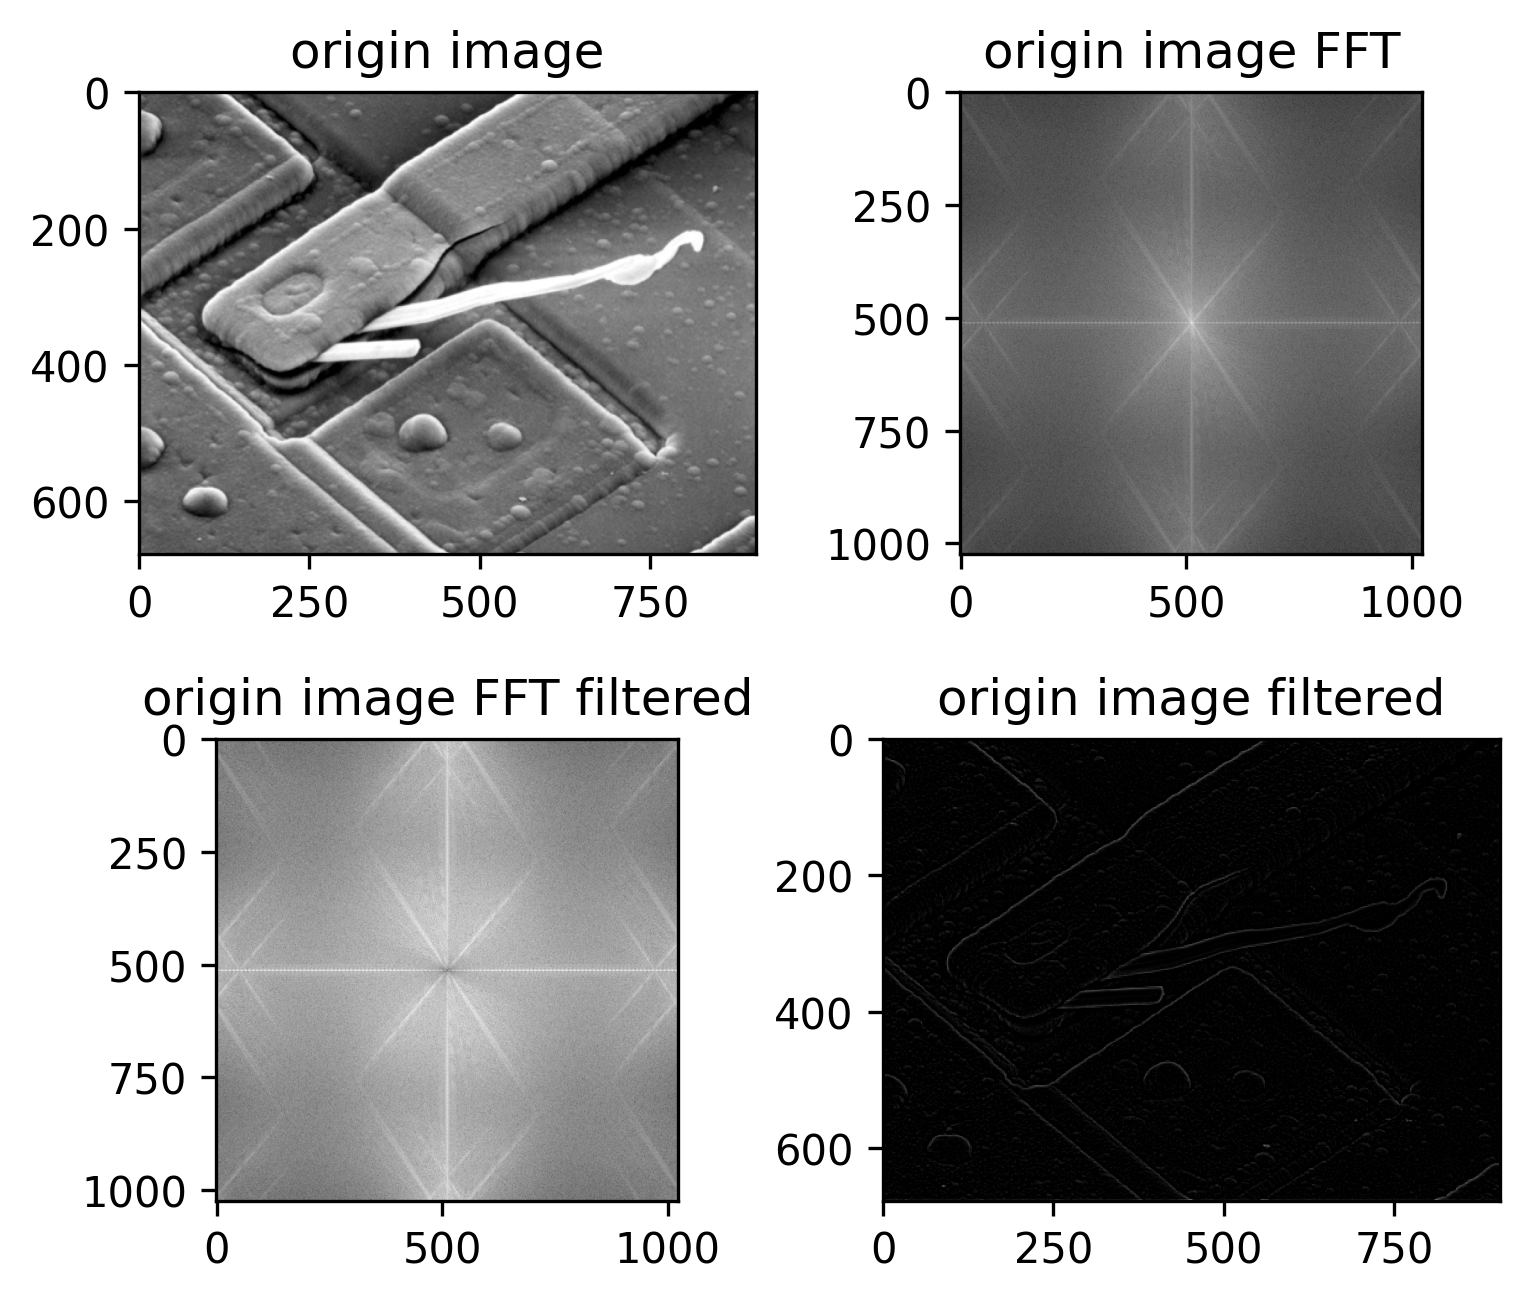
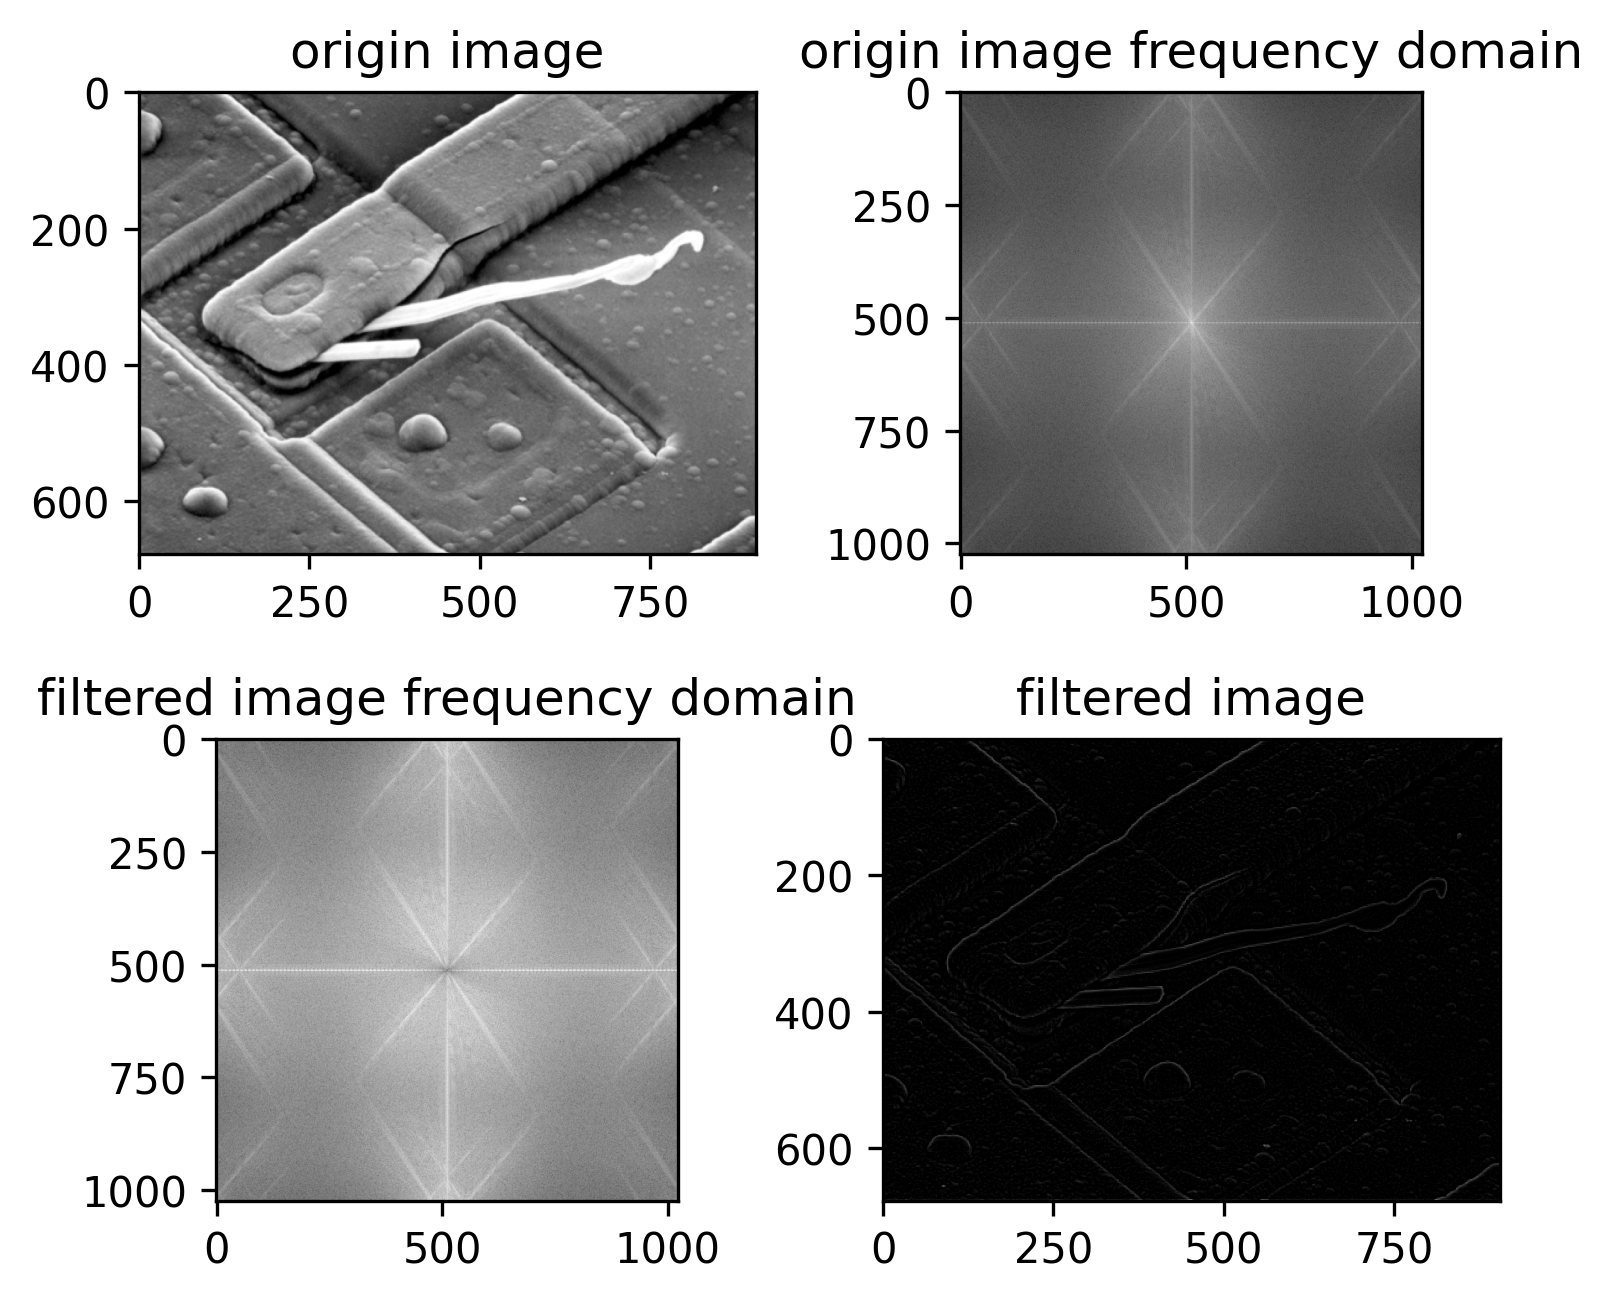
finished p1b

diff --git a/homework/homework2/code/p2/p2a.py b/homework/homework2/code/p2/p2a.py
@@ -10,24 +10,14 @@ def distance_square(P, Q):
     D_square = (I - P // 2) ** 2 + (J - Q // 2) ** 2
     return D_square
 
+def generate_filter(P, Q, D0, gamma_l, gamma_h, c):
+    D_square = distance_square(P, Q)
+    H = (gamma_h - gamma_l) * (1 - np.exp(-c * D_square / (D0 ** 2))) + gamma_l
+    return H
+
 # apply homomorphic filtering
-def homomorphic_filtering(image, D, gamma_l=0.5, gamma_h=0.6, c=1, D0=50):
-    # get the shape of the image
-    rows, cols = image.shape
-
-    # create the filter
-    H = (gamma_h - gamma_l) * [1 - np.exp ** (-c * (D / D0) ** 2) + gamma_l]
-    filter = np.zeros((rows, cols))
-
-    for i in range(rows):
-        for j in range(cols):
-            filter[i, j] = (gamma_h - gamma_l) * (1 - np.exp(-c * ((i - rows / 2) ** 2 + (j - cols / 2) ** 2) / (D0 ** 2))) + gamma_l
-
-    # apply the filter to the image
-    # filtered_image = np.fft.ifftshift(np.fft.ifft2(np.fft.fft2(image) * filter)).real
-    filtered_image = (np.fft.ifft2(np.fft.fft2(image) * filter)).real
-
-    return filtered_image
+def homomorphic_filtering(image, D, gamma_l, gamma_h, c, D0):
+    pass
 
 
 
@@ -36,9 +26,14 @@ origin_image = plt.imread('images/origin_images/PET-scan.tif')
 
 w, h = origin_image.shape
 
+
 # power of 2 for FFT
 P = 2 ** np.ceil(np.log2(w)).astype(int)
 Q = 2 ** np.ceil(np.log2(h)).astype(int)
+
+print(w,h,P,Q)
+exit()
+
 
 filtered_image = homomorphic_filtering(origin_image)
 

diff --git a/homework/homework2/code/p1/p1b.py b/homework/homework2/code/p1/p1b.py
@@ -39,13 +39,13 @@ def show_filter(origin_image, origin_image_fft_shift, origin_image_fft_shift_fil
     axs[0, 0].set_title('origin image')
 
     axs[0, 1].imshow(normalization(20 * np.log(1 + np.abs(origin_image_fft_shift))), cmap='gray')
-    axs[0, 1].set_title('origin image FFT')
+    axs[0, 1].set_title('origin image frequency domain')
 
     axs[1, 0].imshow(normalization(20 * np.log(1 + np.abs(origin_image_fft_shift_filtered))), cmap='gray')
-    axs[1, 0].set_title('origin image FFT filtered')
+    axs[1, 0].set_title('filtered image frequency domain')
 
     axs[1, 1].imshow(normalization(origin_image_filtered), cmap='gray')
-    axs[1, 1].set_title('origin image filtered')
+    axs[1, 1].set_title('filtered image')
 
     plt.savefig('images/p1/p1b_filter.png', dpi=300, bbox_inches='tight')
 
